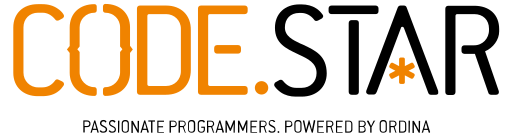
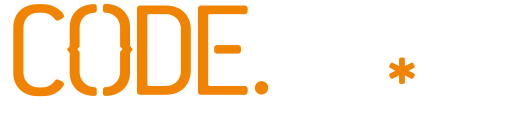
CS: fixes contrast issues with new background image

Changed region(s): [[0.5312, 0.0296, 1.0, 0.7407], [0.1562, 0.8889, 0.8438, 1.0]]

diff --git a/enoughcs/theme-modifications.css b/enoughcs/theme-modifications.css
@@ -26,7 +26,10 @@
 
 /* Overrides for specific kinds of pages */
 
+html.page-portrait .reveal,
+html.page-portrait .reveal a,
 html.page-portrait .reveal h1 {
+  color: #DDDDDD;
   text-shadow: 0 1px 0 #aaa, 0 2px 0 #a9a9a9, 0 3px 0 #999, 0 4px 0 #999999, 0 5px 0 #888, 0 6px 1px rgba(0, 0, 0, 0.1), 0 0 5px rgba(0, 0, 0, 0.1), 0 1px 3px rgba(0, 0, 0, 0.3), 0 3px 5px rgba(0, 0, 0, 0.2), 0 5px 10px rgba(0, 0, 0, 0.25), 0 20px 20px rgba(0, 0, 0, 0.15);
 }
 
@@ -101,7 +104,7 @@ html.page-portrait .reveal img.raw {
 }
 
 .doesitwork {
-  font-size: 0.2em;
+  font-size: 0.7em;
   position: fixed;
   bottom: 25px;
 }

diff --git a/enoughcs/src/talk.md b/enoughcs/src/talk.md
@@ -31,7 +31,7 @@ I studied computer science so you don't have to
 :::
 
 ::: doesitwork
-x
+.
 :::
 
 ###
